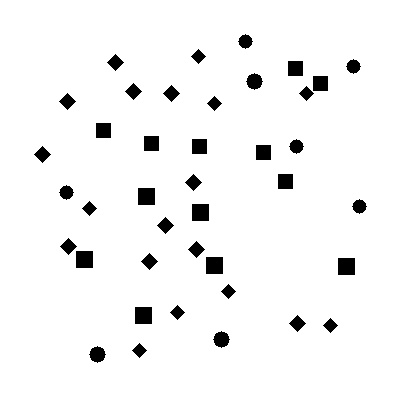
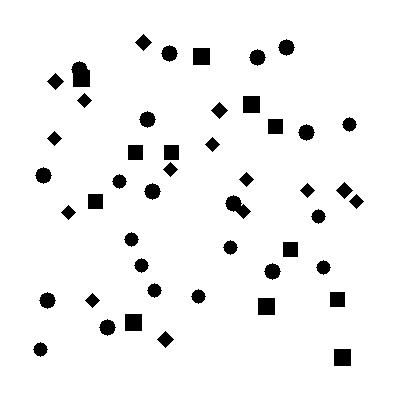
改了碰撞逻辑！现在采用gau模型，尝试进行热源化。目前修改了大部分，但是外推还没完善。宏观量统计部分还没完善。kappa和C初始化也是待完善状态……

diff --git a/py/main.py b/py/main.py
@@ -7,54 +7,6 @@ import cv2
 
 NX = 200*3#格子 x 轴 数目（格点数）#记得乘以3保证是3的整数倍！
 NY = 200#格子 y 轴 数目 （格点数）
-Q = 9  # D2Q9 有九个方向
-Rho0 = 1.0 # 密度
-G = [0,0] # 压力梯度
-G=np.array(G)
-e = np.array([[0,0],[1,0],[0,1],[-1,0],[0,-1],[1,1],[-1,1],[-1,-1],[1,-1]])
-#定义一个相反的方向量作为反弹边界的方向判定
-re = np.array([0,3,4,1,2,7,8,5,6])#相反方向索引
-ww = np.array([4.0/9, 1.0/9, 1.0/9, 1.0/9, 1.0/9, 1.0/36, 1.0/36, 1.0/36, 1.0/36,])# 各个方向的权重（）
-
-Rho = np.ones((NX, NY,), dtype = np.float64)# 每个格点的总密度
-
-U = np.ones((NX, NY, 2), dtype = np.float64) # 速度矢量
-UU = np.ones((NX, NY,), dtype = np.float64) #速度标量值
-U_pre = np.ones((NX, NY, 2), dtype = np.float64)#定义一个前一步的速度量来计算相邻两步之间的误差
-f = np.zeros((NX, NY, Q), dtype = np.float64)#速度分布函数
-f_col=np.zeros(shape=f.shape)#碰撞使用的临时速度分布变量
-U_tau=0.5
-
-T = np.ones((NX,NY),dtype=np.float64)#每个格点的总温度（归一化后）
-t = np.zeros((NX, NY, Q), dtype = np.float64)#温度分布函数
-t_col=np.zeros(shape=t.shape)#碰撞使用的临时温度分布变量
-T_tau=0.5
-Th=1#热的
-T0=0.5#默认水温
-Tc=0#冷的
-#初始化
-def init(U0,block,Rho0):
-    for i in range(NX):
-        for j in range(NY):
-            if(block[i][j] == 1):#如果是墙壁格子，密度为0，速度为0
-                Rho[i][j] = 1.0#调整尺度
-                U[i][j] = [0.0 ,0.0]#无速度
-                T[i][j]=Th
-            else:
-                Rho[i][j] = Rho0
-                U[i][j] = U0
-                T[i][j]=T0
-            #以平衡态分布函数作为初始的密度分布函数
-            for m in range(Q):
-                f[i][j][m] = simulation.U_feq(m, Rho[i][j], U[i][j])#按平衡态分布
-                t[i][j][m] = simulation.T_feq(m, T[i][j], U[i][j])
-        block[i][0]=1
-        block[i][NY-1]=1
-        U[i][0] = [0.0, 0.0]#无速度
-        T[i][0]=Tc
-        U[i][NY-1] = [0.0, 0.0]#无速度
-        T[i][NY-1]=Tc
-
 #定义一个墙壁的格子，1代表墙壁，0代表流体
 if __name__ == "__main__":
     output.clear_output()#清理之前的输出文件
@@ -72,46 +24,27 @@ if __name__ == "__main__":
     
     Re = float(input("enter Re"))#输入雷诺数
     Pr= float(input("enter Pr"))#输入普朗克数
+    beta = float(input("enter β"))#输入热膨胀系数
+    Ra = float(input("enter Ra"))#输入瑞利数
     U1=float(input("enter Ux"))#输入初始速度x
     U2=float(input("enter Uy"))#输入初始速度y
     U0 = [U1,U2]
     U0=np.array(U0)
-    viu = np.sqrt(U1*U1+U2*U2)*NY/Re#根据雷诺数计算粘度
-    U_tau = 3*viu + 0.5#根据运动粘度算出速度松弛系数
-    T_tau = 3*viu/Pr + 0.5 #根据运动粘度和普朗克数算出温度松弛系数
-    print("Re: {}, U: {}, U_tau: {}, T_tau: {}".format(Re, U0, U_tau, T_tau))
-
-    init(U0, block, Rho0)
+    controller=simulation.controller(NX=NX,NY=NY,block=block,
+                                     Re=Re,Pr=Pr,beta=beta,Ra=Ra,U0=U0,
+                                     g=9.8,D=2,Q=9)
     
     max_iter = 10000
-    imgs=[]
     for n in range(max_iter):
-        U_pre = np.copy(U)
-        f, Rho, U, UU, T = simulation.evolution(NX=NX, NY=NY, 
-                                                f=f,f_col=f_col,Rho=Rho,
-                                                U=U,UU=UU,U_tau=U_tau,
-                                                t=t, t_col=t_col, T=T, T_tau=T_tau,
-                                                block= block ,
-                                                Rho0=Rho0,U0=U0,T0=T0 ,G=G)
+        controller.run_one_step()        
         if(n % 5 == 0):#每5步输出一次结果
-            print('Iter: {}, Error: {}'.format(n, simulation.error(U, U_pre)))
-            output.writetecplot(NX, NY, Rho, T, U, n)
-            #pic=output.draw_velocity_field(NX, NY, U, UU, Rho, n, save_fig=False)
-            #imgs.append(pic)
-        if(simulation.error(U, U_pre) < 1e-6):#误差足够小，认为收敛
-            print('Converged at Iter: {}, Error: {}'.format(n, simulation.error(U, U_pre)))
-            output.writetecplot(NX, NY, Rho, T, U, n)
-            #pic=output.draw_velocity_field(NX, NY, U, UU, Rho,n, save_fig=False)
-            #imgs.append(pic)
-            break
+            err=controller.report_err()
+            print('Iter: {}, Error: {}'.format(n, err))
+            controller.write(n)#只传个编号就好了
+            if(err < 1e-6):#误差足够小，认为收敛
+                print('Converged at Iter: {}, Error: {}'.format(n, err))
+                controller.write(n)
+                break
     #将结果做成视频
-    '''output_video = 'lbm_simulation.mp4'
-    height, width, layers = imgs[0].shape
-    fourcc = cv2.VideoWriter_fourcc(*'mp4v')
-    video = cv2.VideoWriter(output_video, fourcc, 5, (width, height))
-    for img in imgs:
-        video.write(cv2.cvtColor(img, cv2.COLOR_RGBA2BGR))
-    video.release()'''
-    
 
     

diff --git a/py/graph.py b/py/graph.py
@@ -51,7 +51,7 @@ def perlin_noise(size,grid_size=(10,10),seed=42):#生成柏林噪声
     return res
 
 #这里chance 是各个图形的概率 ，里面每个数组（其实改成tuple会更可读），分别是概率，和对应的形状 ， graph_size是图形半径相对grid大小，size_float是半径大小的波动范围
-def cell_noise(size,grid_size=(40,40),seed=42,chance=[[0.2,"circle"],[0.2,"square"],[0.2,"diamond"]],graph_size=0.4/2,size_float=0.1,save_path="cell_random_img.jpg"):
+def cell_noise(size,grid_size=(40,40),seed=42,chance=[[0.3,"circle"],[0.3,"square"],[0.2,"diamond"]],graph_size=0.4/2,size_float=0.1,save_path="cell_random_img.jpg"):
     #np.random.seed(seed)
     map=np.ones(shape=size)
     x_cnt=size[0]//grid_size[0]
@@ -75,17 +75,19 @@ def cell_noise(size,grid_size=(40,40),seed=42,chance=[[0.2,"circle"],[0.2,"squar
             sz_index=np.random.uniform(1.-size_float,1.+size_float)
             szx=int(gszx*sz_index)
             szy=int(gszy*sz_index)
+            
+            check=None#check判断是否需要着色。可以以此为入手点，进行进一步丰富多种形状！tpe参数描述形状，这里可以加一些其他的比如方形（我这里写的是圆形）
+            if(tpe=="circle"):
+                check=lambda dx,dy: True if np.sqrt(dx**2+dy**2)<=min(szx,szy) else False#
+            elif(tpe=="square"):
+                check=lambda dx,dy: True
+            elif(tpe=="diamond"):
+                check=lambda dx,dy: True if (abs(dx)+abs(dy))<=min(szx,szy) else False
+            elif(tpe=="null"):
+                check=lambda dx,dy: False
+
             for dx in range(0,szx+1):#考虑到取余问题，多动一位，毕竟是有进一步的距离判断的，问题不大
                 for dy in range(0,szy+1):
-                    check=None#check判断是否需要着色。可以以此为入手点，进行进一步丰富多种形状！tpe参数描述形状，这里可以加一些其他的比如方形（我这里写的是圆形）
-                    if(tpe=="circle"):
-                        check=lambda dx,dy: True if np.sqrt(dx**2+dy**2)<=min(szx,szy) else False#
-                    elif(tpe=="square"):
-                        check=lambda dx,dy: True
-                    elif(tpe=="diamond"):
-                        check=lambda dx,dy: True if (abs(dx)+abs(dy))<=min(szx,szy) else False
-                    elif(tpe=="null"):
-                        check=lambda dx,dy: False
                     if check(dx,dy):
                         map[posx+dx][posy+dy]=0
                     if check(-dx,dy):

diff --git a/examples/tmp.cpp b/examples/tmp.cpp
@@ -1,0 +1,9 @@
+#include<bits/stdc++.h>
+using namespace std;
+int main(){
+    int a=0;
+    cout<<++a<<a++<<endl;
+    cout<<a<<endl;
+    
+    return 0;
+}